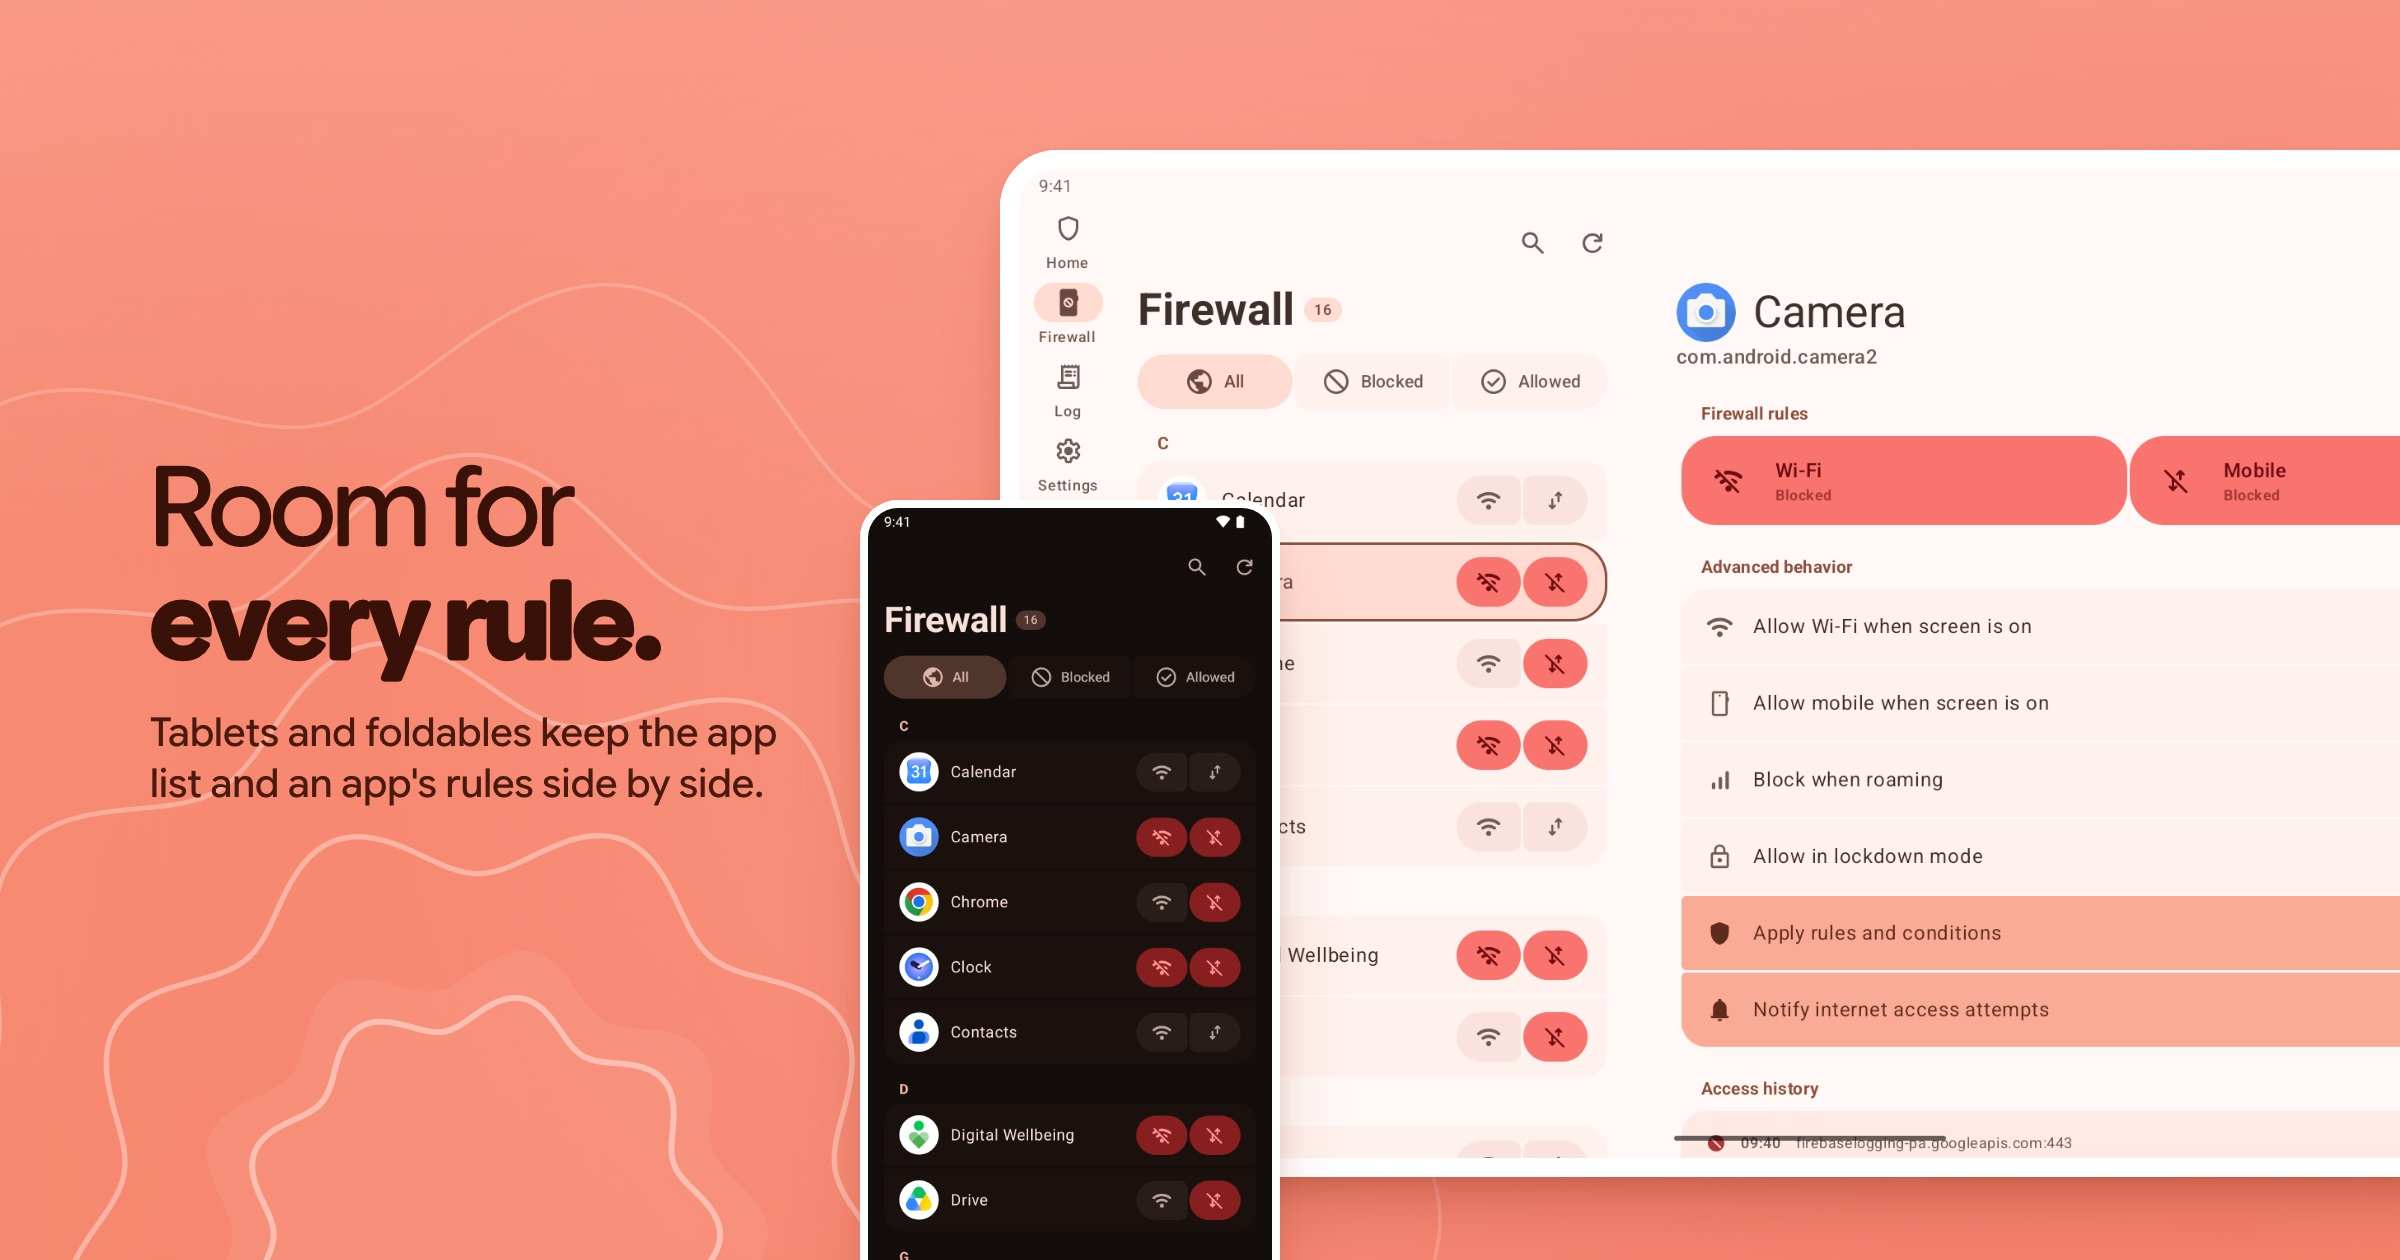
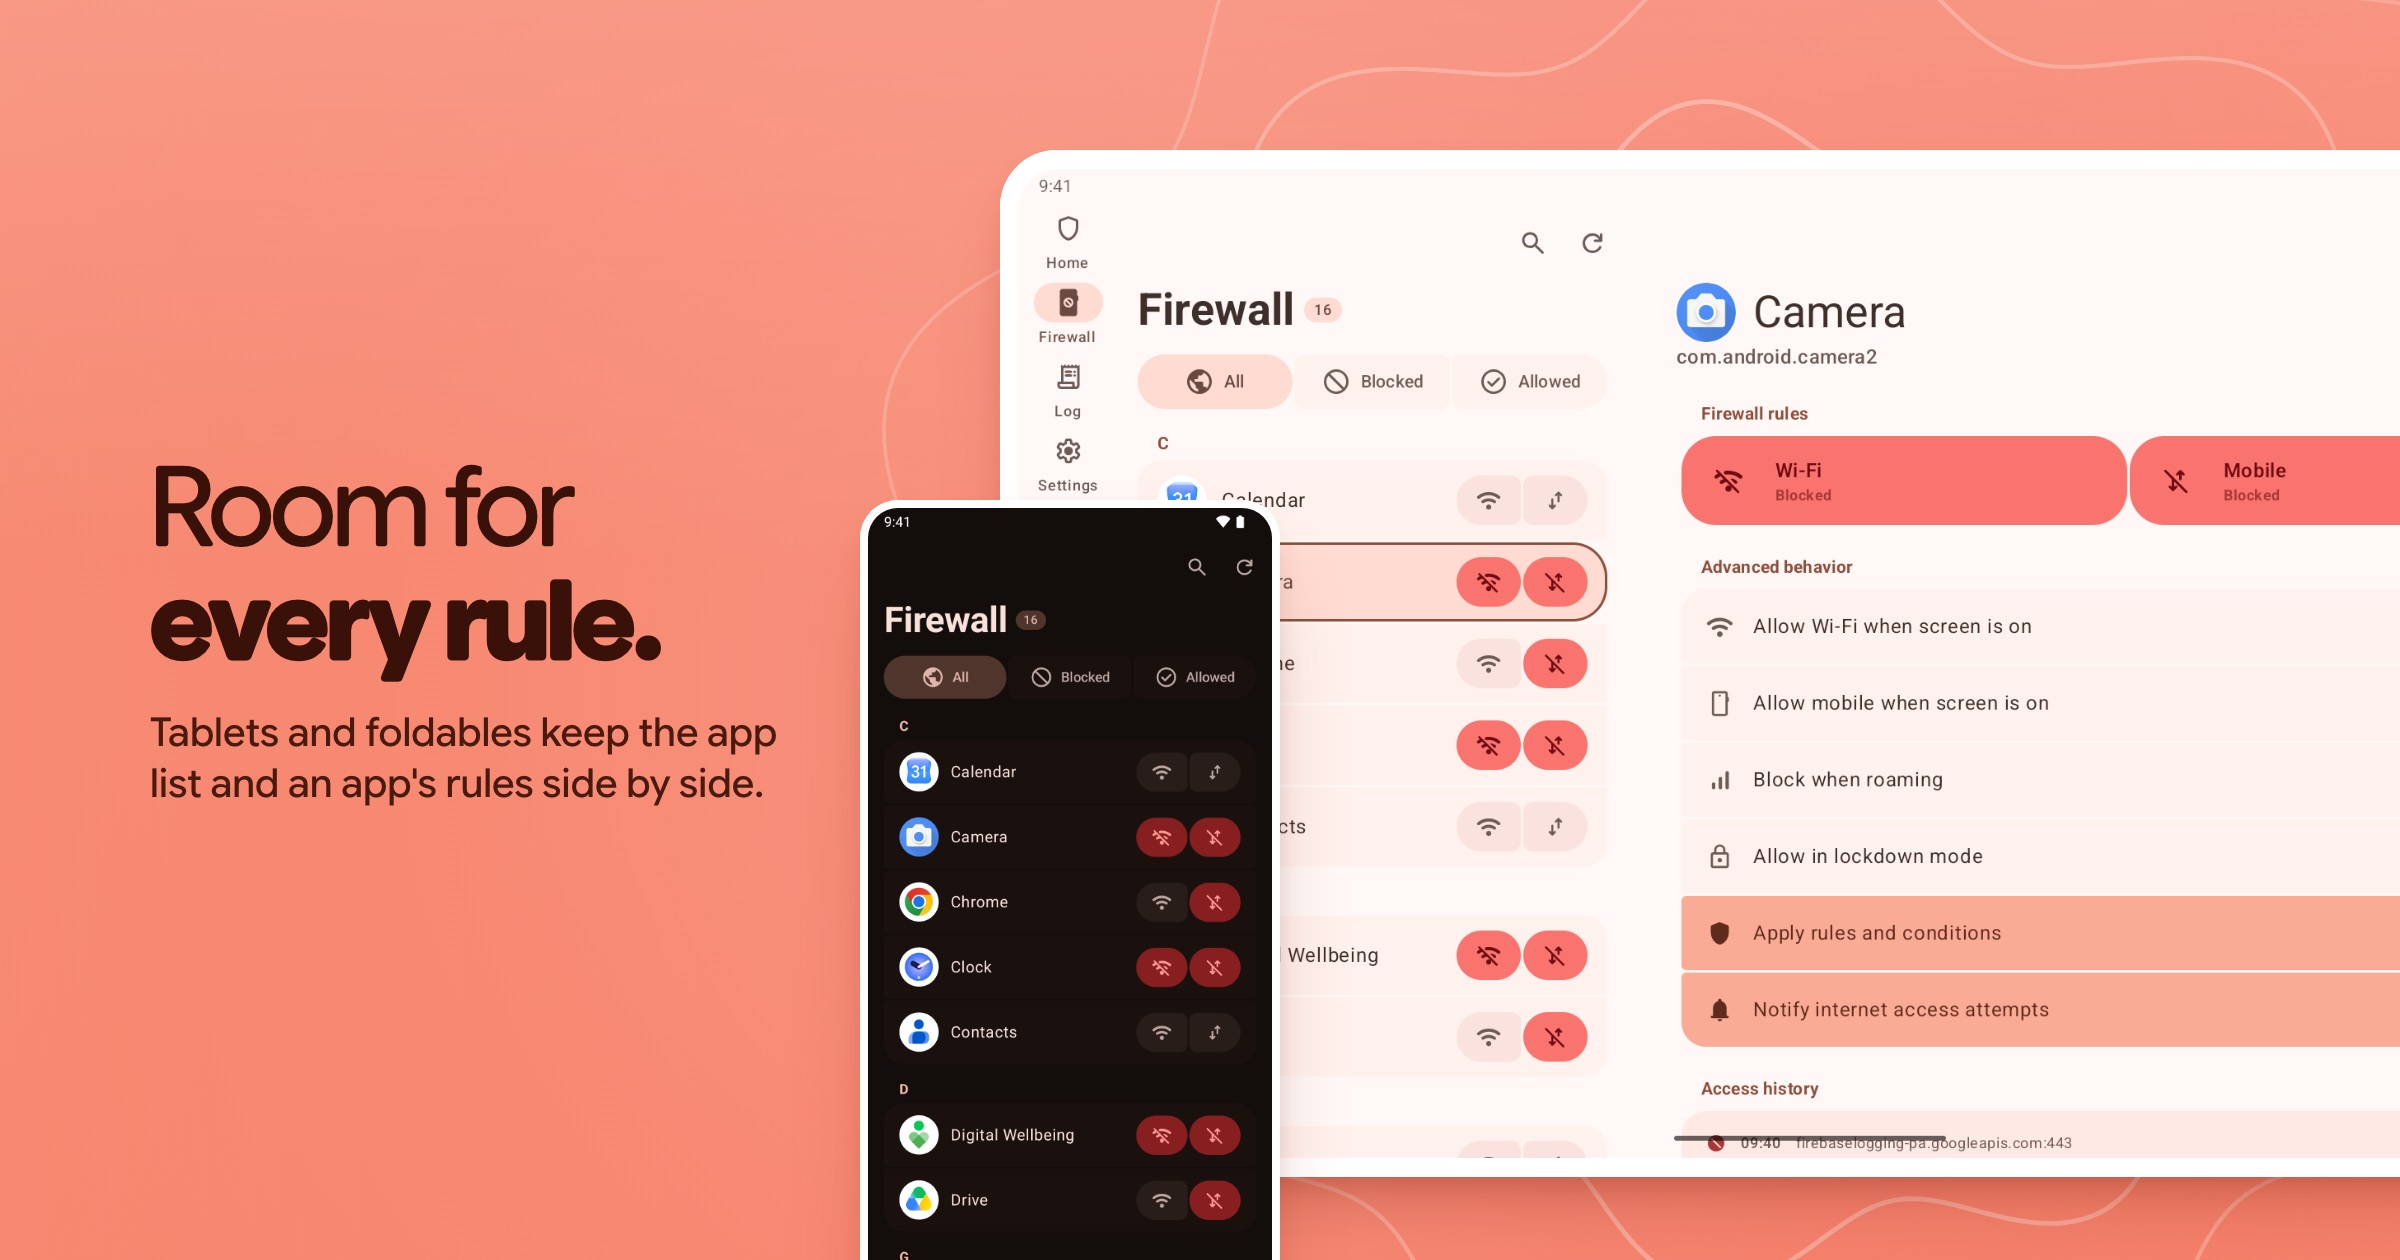
Tablet spread: the ripple set rises from behind the middle of the tablet, clear of the text
Images can place their own ripple sets, measured within the image; the shared sets still run
across the whole strip.

diff --git a/store-listing/theme.js b/store-listing/theme.js
@@ -39,9 +39,11 @@ function art(ctx) {
     body += `<rect width="${W}" height="${H}" fill="url(#glow${k})"/>`;
   });
   body += '<g mask="url(#quiet)">';
-  // An image can opt out (the comparison keeps all attention on its phones).
-  for (const r of ctx.slide?.ripples === false ? [] : ripples) {
-    const cx = panoramaX(ctx, r.x), cy = H * r.y;
+  // An image can opt out (the comparison) or place its own sets (the tablet spread, centred behind the tablet).
+  // An image's own sets are placed within that image; the shared sets run across the whole strip.
+  const own = Array.isArray(ctx.slide?.ripples);
+  for (const r of ctx.slide?.ripples === false ? [] : own ? ctx.slide.ripples : ripples) {
+    const cx = own ? W * r.x : panoramaX(ctx, r.x), cy = H * r.y;
     if (cx < -unit * 1.6 || cx > W + unit * 1.6) continue;
     for (let i = 0; i < r.rings; i++) {
       const radius = unit * (.1 + i * r.step);
